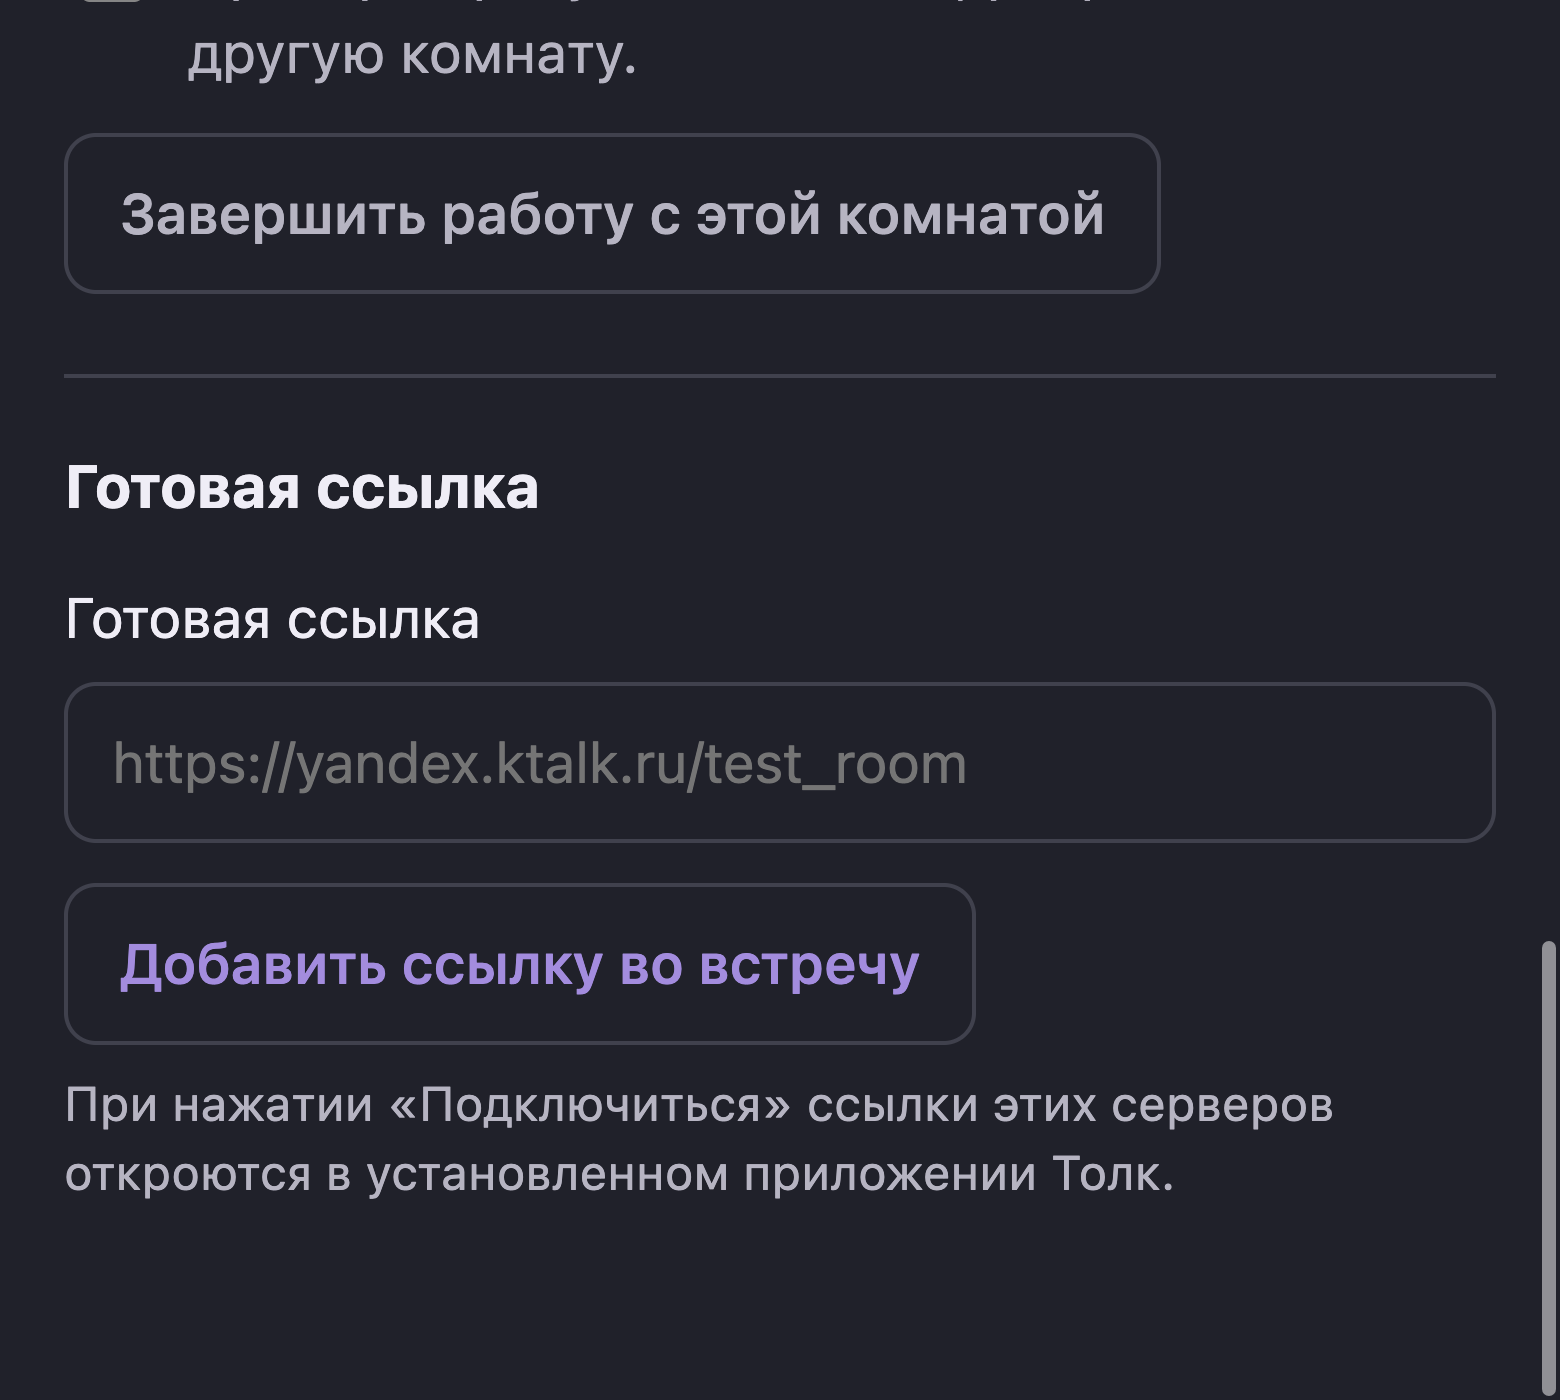
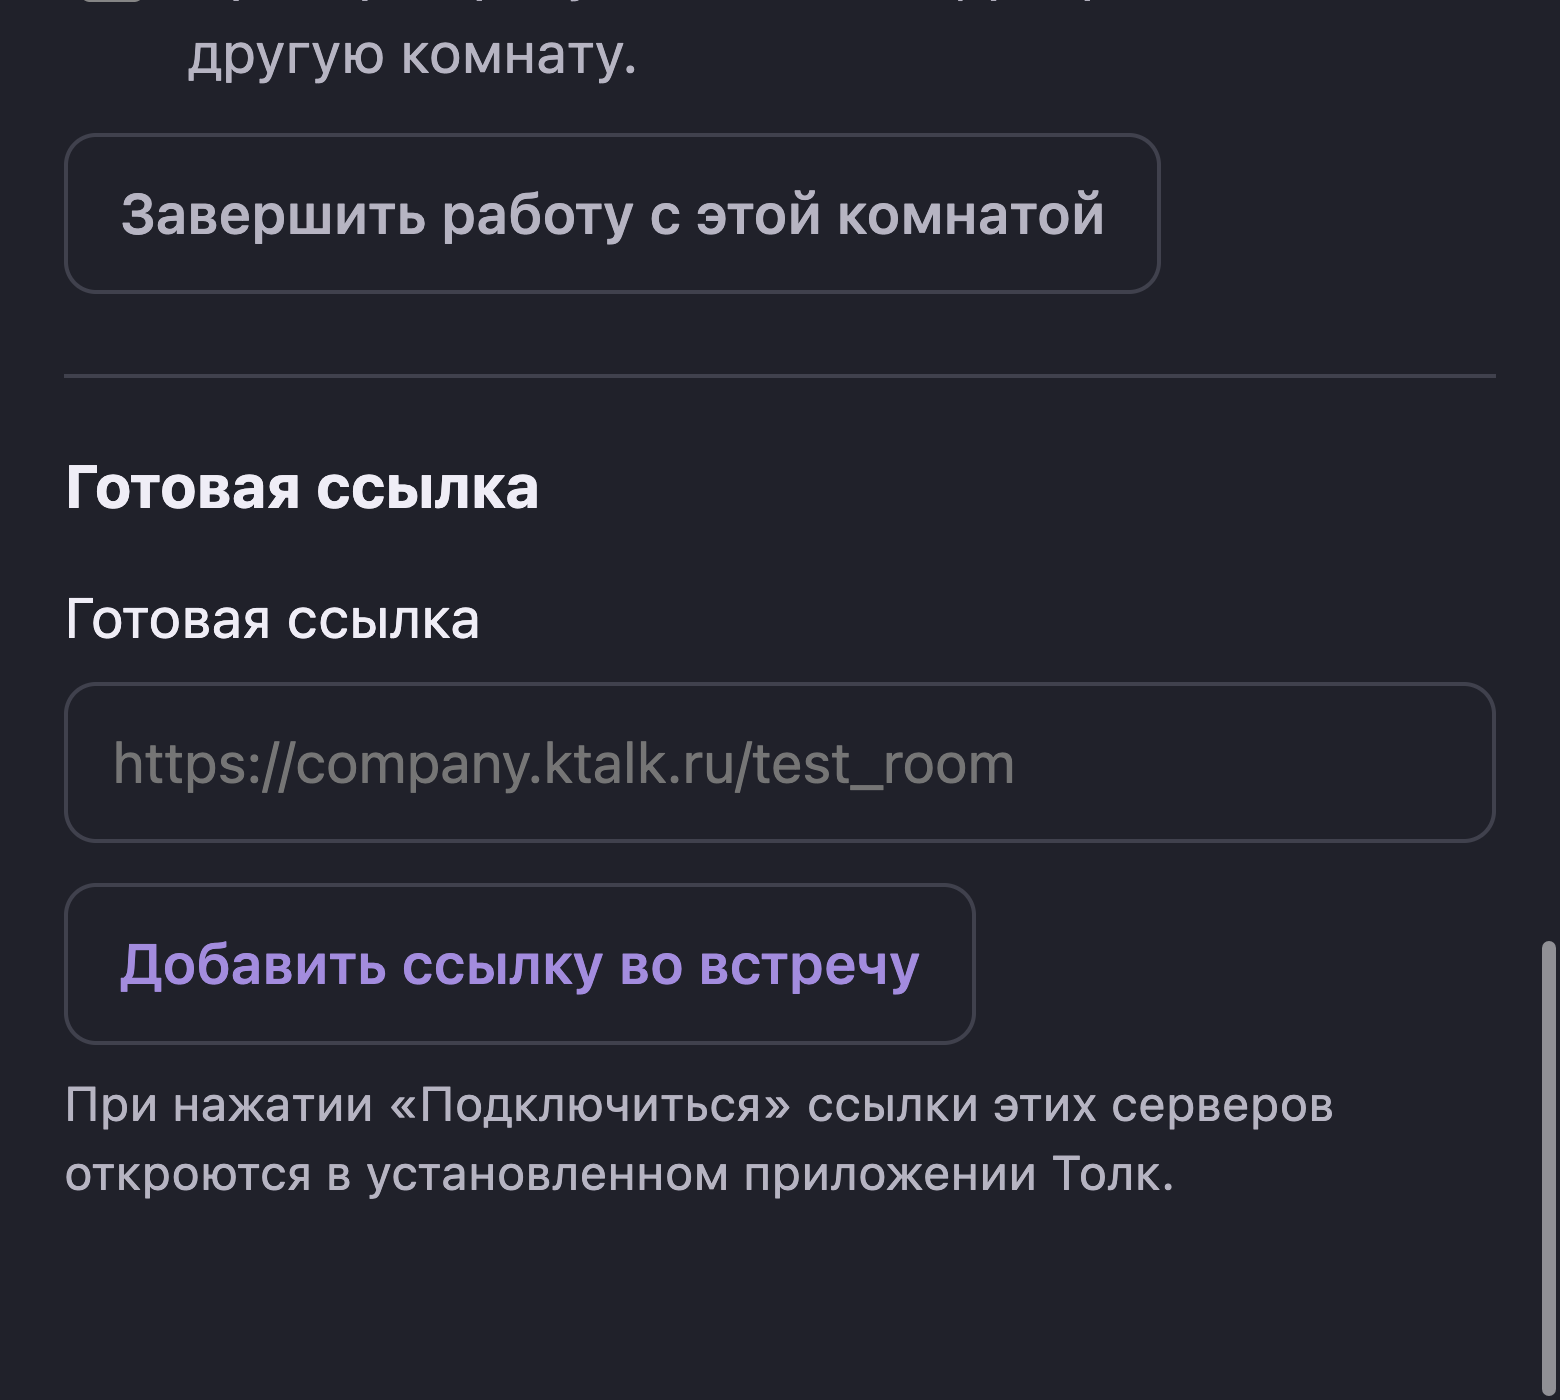
Remove test workspace and support persistent module upgrades

Changed region(s): [[0.1846, 0.5221, 0.6462, 0.5836]]

diff --git a/ktalk/panel.html b/ktalk/panel.html
@@ -11,7 +11,7 @@
     <header><span class="mark" aria-hidden="true">Т</span><div><h1 data-text>Комнаты Толка</h1><p data-text>Встреча в один клик</p></div></header>
     <details id="connection" open><summary data-text>Настройки подключения</summary>
     <form id="settings">
-      <label><span data-text>Сервер пространства</span><input id="server" name="server" list="servers" placeholder="yandex.ktalk.ru" required autocapitalize="none" spellcheck="false"></label>
+      <label><span data-text>Сервер пространства</span><input id="server" name="server" list="servers" placeholder="company.ktalk.ru" required autocapitalize="none" spellcheck="false"></label>
       <datalist id="servers"></datalist>
       <label><span data-text>Ключ API пространства</span><input id="api-key" name="apiKey" type="password" maxlength="4096" autocomplete="off" spellcheck="false"></label>
       <p id="key-hint" class="note"></p>
@@ -40,7 +40,7 @@
     </section>
     <section>
       <h2 data-text>Готовая ссылка</h2>
-      <form id="existing"><label><span data-text>Готовая ссылка</span><input id="existing-url" name="url" type="url" placeholder="https://yandex.ktalk.ru/test_room" required spellcheck="false"></label><button type="submit" data-text>Добавить ссылку во встречу</button></form>
+      <form id="existing"><label><span data-text>Готовая ссылка</span><input id="existing-url" name="url" type="url" placeholder="https://company.ktalk.ru/test_room" required spellcheck="false"></label><button type="submit" data-text>Добавить ссылку во встречу</button></form>
     </section>
     <p class="note" data-text>При нажатии «Подключиться» ссылки этих серверов откроются в установленном приложении Толк.</p>
     <output id="status" role="status" aria-live="polite"></output>

diff --git a/ktalk/config.js b/ktalk/config.js
@@ -1,1 +1,1 @@
-export const servers = ['https://app.ktalk.ru', 'https://yandex.ktalk.ru'];
+export const servers = ['https://app.ktalk.ru'];

diff --git a/docs/sdk/updates.md b/docs/sdk/updates.md
@@ -1,0 +1,50 @@
+# Обновление и миграции настроек
+
+
+В каталоге новая версия установленного ID показывает «Обновить с сохранением
+настроек». Пакет заново загружается по immutable commit и проверяется. Удаление
+перед обновлением не требуется. Сохраняются `data`, включённость, совместимая
+сервисная сессия и точные origin grants; данные разных аккаунтов не смешиваются.
+Расширение возможностей или смена источника требуют отдельного подтверждения.
+Несовместимая схема сессии не переносит токен в новый способ авторизации.
+
+Версия данных задаётся независимо от версии пакета: `settingsVersion` (по умолчанию
+1). Если схема не меняется, настройки сохраняются целиком, включая API-ключи и
+неопределённые результаты внешних записей. Например:
+
+```json
+{
+  "settingsVersion": 2,
+  "settingsMigrations": [{
+    "from": 1,
+    "to": 2,
+    "operations": [
+      {"op":"rename","from":["apiKey"],"path":["credentials","token"]},
+      {"op":"setDefault","path":["appearance","theme"],"value":"light"}
+    ]
+  }]
+}
+```
+
+Первый контракт поддерживает последовательные шаги `n → n+1`, переименование
+JSON-полей без перезаписи существующего назначения и установку отсутствующих
+значений. Удалений и произвольного исполнения кода в main нет. Пути работают с
+объектами, не индексами массивов; целые массивы можно переносить как значения.
+Для сложного преобразования, не покрытого контрактом, сначала расширяется SDK
+с тестами. Нельзя молча очистить настройки или заменить отсутствующую миграцию
+инициализацией. Новый пакет при первой установке инициализирует пустые настройки
+своим обычным кодом; миграции применяются к ранее сохранённым данным.
+
+Миграция выполняется на копии данных, в порядке схем, без сети и до переключения
+версии. Нет шага, конфликт ключей, неизвестная операция, превышение 16 КБ или
+ошибка шифрованного сохранения — старая запись остаётся. Финальные версия пакета,
+схема и настройки записываются вместе через атомарный LocalStore. Во время
+операции нельзя запускать/удалять/переключать модуль; активные команды и окно входа
+нужно сначала завершить. После обновления runtime запускается заново; SDK не
+повторяет создание комнат и не отправляет приглашения.
+
+Автоматических обновлений нет. Старые package snapshots пока сохраняются на диске;
+они не исполняются без текущей записи аккаунта. История settings-backup и ручной
+rollback с понижением схемы — следующие отдельные возможности, не автоматический
+откат после произвольного server write. При проблеме уже активированной версии
+публикуется исправление с новой версией пакета и проверенным преобразованием схемы.

diff --git a/ktalk/README.md b/ktalk/README.md
@@ -13,10 +13,10 @@
 с поддержкой модулей. Проверьте запрашиваемые разрешения, подтвердите установку
 и отдельно включите модуль для нужного аккаунта.
 
-Поставляемый пакет разрешает `https://app.ktalk.ru` и `https://yandex.ktalk.ru`.
+Поставляемый пакет разрешает `https://app.ktalk.ru` и `https://app.ktalk.ru`.
 Укажите сервер с `https://` или без него, сохраните настройки. При смене сервера
 прежний ключ не переносится. Незавершённый результат создания нужно сначала проверить
-и завершить. Готовая ссылка `https://yandex.ktalk.ru/test_room` поддерживается.
+и завершить. Готовая ссылка `https://app.ktalk.ru/test_room` поддерживается.
 Для подключения к конференции ключ API не требуется; вход участника выполняет Толк.
 
 ## Корпоративная аутентификация
@@ -129,3 +129,11 @@ npm run package:ktalk -- --server https://company.ktalk.ru --out dist/company --
 проверенного пакета с точными origins (см. команду подготовки своего пакета).
 Удаление модуля удаляет и дополнительные разрешения; повторное подключение
 начинается без них. Смена сервера не переносит API-ключ предыдущего сервера.
+
+## Обновление
+
+Используйте «Обновить с сохранением настроек» в каталоге совместимого клиента.
+Удалять модуль перед обновлением не нужно: сохраняются сервер, API-ключ, состояние
+комнат и выданные разрешения. Записи неизвестного результата не повторяются.
+`settingsVersion: 1` не меняет структуру этих данных. При будущей смене схемы
+пакет должен объявить проверенную цепочку миграций SDK.

diff --git a/docs/sdk/extensions.md b/docs/sdk/extensions.md
@@ -17,7 +17,7 @@ Manifest: право `meeting.launch` и
 {
   "meetingLinks": {
     "scheme": "ktalk",
-    "origins": ["https://yandex.ktalk.ru"]
+    "origins": ["https://app.ktalk.ru"]
   }
 }
 ```
@@ -47,7 +47,7 @@ Manifest: право `auth.session` вместе с `network` и
       "rejectPath": ["data", "anonymous"]
     },
     "authorization": { "scheme": "Session" },
-    "origins": ["https://yandex.ktalk.ru"],
+    "origins": ["https://app.ktalk.ru"],
     "identityOrigins": ["https://passport.skbkontur.ru", "https://identity.kontur.ru"]
   }
 }
@@ -99,3 +99,6 @@ Host показывает точный адрес и запрашивает по
 Токены прежнего сервера не переносятся, IdP origins не расширяются автоматически.
 Удаление модуля удаляет дополнительные разрешения. Домены вне объявленного
 семейства оформляются проверенным пакетом с точными origins.
+
+Обновления модулей сохраняют данные. Версия настроек и декларативные миграции
+описаны в [updates.md](updates.md); устанавливать обновление через удаление нельзя.

diff --git a/RELEASE_NOTES.md b/RELEASE_NOTES.md
@@ -1,3 +1,18 @@
+# v0.1.4
+
+## Изменения
+
+- Из ktalk 0.1.2 удалён тестовый адрес пространства; свой сервер задаётся в настройках.
+- Пакет совместим с обновлением без удаления сохранённых настроек в клиенте.
+- Баги переезжают без чемоданов: настройки остаются у владельца.
+
+## Установка
+
+В совместимом клиенте откройте каталог и обновите Контур.Толк до 0.1.2.
+Для своего пространства укажите домен и подтвердите разрешение на него.
+
+---
+
 # v0.1.3
 
 ## Изменения
